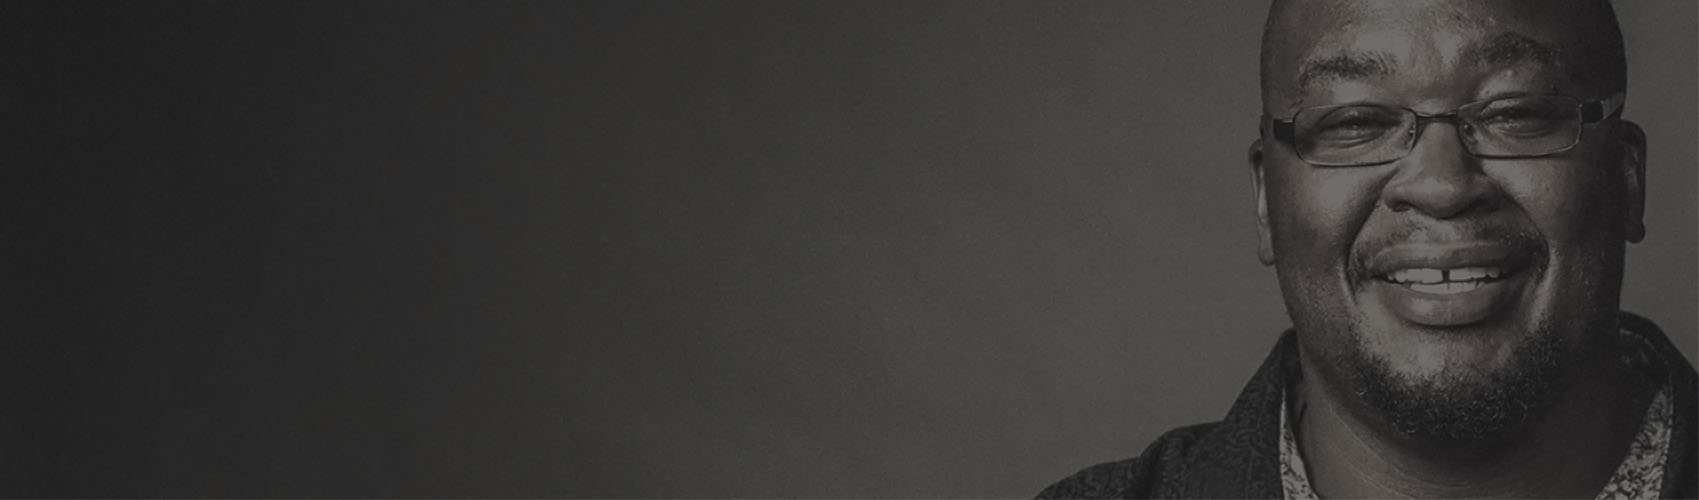
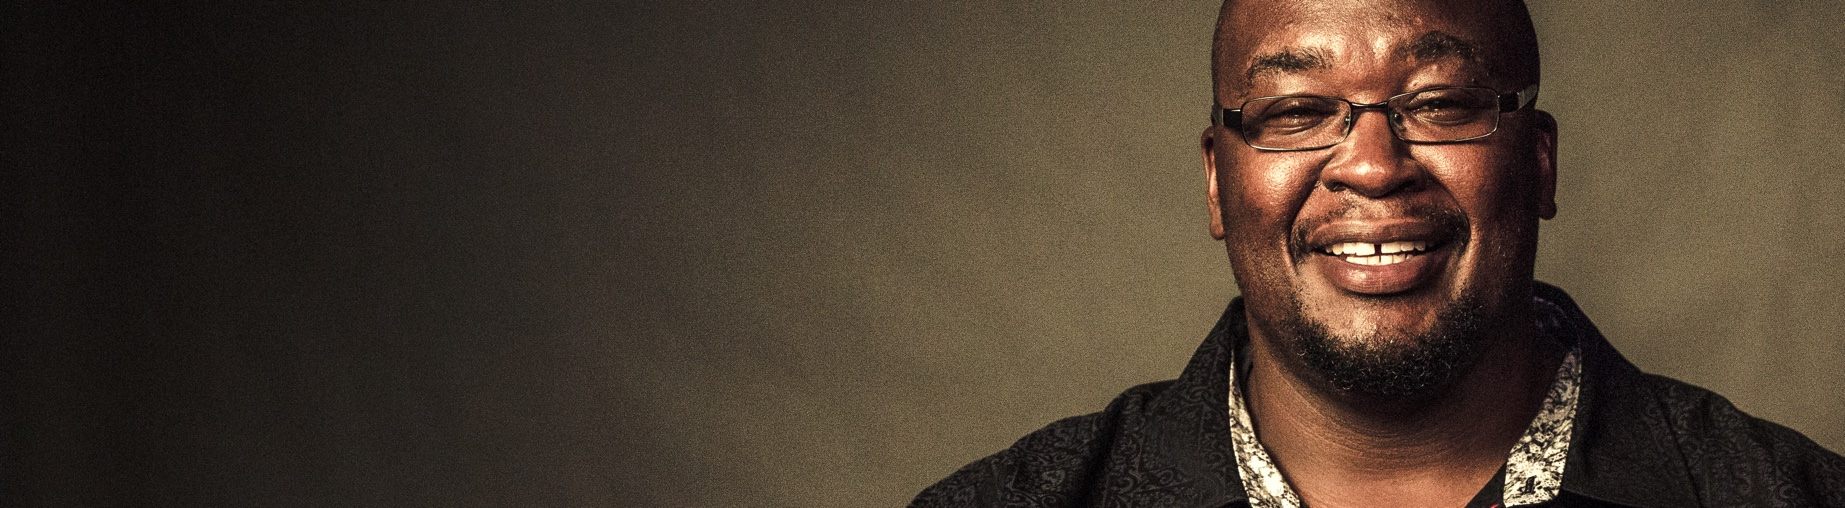
add new background images and some css fixes

diff --git a/portal/static/css/gil.css b/portal/static/css/gil.css
@@ -6210,7 +6210,7 @@ figure.nav-overlay {
 }
 
 .module__heading {
-    font-size: 33px;
+    font-size: 30px;
     line-height: 38px;
     font-weight: bold;
     margin: 0 0 20px;
@@ -6258,10 +6258,10 @@ figure.nav-overlay {
 }
 @media (max-width: 767px) {
     .module__head {
-        font-size: 26px;
+        font-size: 24px;
     }
     .module__body {
-        font-size: 22px;
+        font-size: 20px;
         line-height: 28px;
     }
 }
@@ -6629,28 +6629,33 @@ figure.nav-overlay {
     }
 }
 .module-wrap--background__alonzo {
-    background-image: url("../img/LE_Alonzo_McCann_Tablet.jpg");
-    background-position: 95%;
+    background-image: url("../img/LE_Alonzo_McCann.jpg");
+    background-position: 65%;
     transition: background-position 200ms ease-in-out;
 }
-@media (min-width: 992px) {
+@media (min-width: 1100px) {
+    .module-wrap--background__alonzo {
+        background-position: center center;
+    }
+}
+/*@media (min-width: 992px) {
     .module-wrap--background__alonzo {
         background-image: url("../img/LE_Alonzo_McCann.jpg");
     }
-}
+}*/
 .module-wrap--background__andrew {
-    background-image: url("../img/LE_David_Andrew_Perez_Tablet.jpg");
+    background-image: url("../img/LE_David_Andrew_Perez.jpg");
     background-position: 0;
     transition: background-position 200ms ease-in-out;
 }
-@media (min-width: 992px) {
+/*@media (min-width: 992px) {
     .module-wrap--background__andrew {
         background-image: url("../img/LE_David_Andrew_Perez.jpg");
     }
-}
+}*/
 .module-wrap--background__twins {
     background-image: url("../img/LE_Hirsch_Brothers_Tablet.jpg");
-    background-position: 58%;
+    background-position: 75%;
     transition: background-position 200ms ease-in-out;
 }
 @media (min-width: 1300px) {
@@ -6660,7 +6665,7 @@ figure.nav-overlay {
     }
 }
 .module-wrap--background .module__head {
-    font-size: 33px;
+    font-size: 2.3em;
 }
 
 @media (min-width: 1600px) {
@@ -6694,7 +6699,6 @@ figure.nav-overlay {
 }
 @media (min-width: 992px) {
     .module-wrap--background .module__body {
-        font-size: 1.8em;
         line-height: 1.4em;
     }
 }
@@ -6746,7 +6750,7 @@ figure.nav-overlay {
     }
     img.mobile {
         display: block;
-        width: 300px;
+        width: 350px;
         max-width: 100%;
         margin: 0 auto 1.5em auto;
         padding: 1em 0;
@@ -6757,7 +6761,6 @@ figure.nav-overlay {
     }
 
     .module-wrap--background .module__heading {
-        font-size: 24px;
         padding-left: 10px;
         padding-right: 10px;
     }
@@ -6766,10 +6769,15 @@ figure.nav-overlay {
     }
 }
 aside .module-wrap--background {
-    padding-top: 8%;
+    padding-top: 14%;
     padding-bottom: 0;
     background-position: center;
     transition: background-position 150ms ease-in;
+}
+@media (min-width: 550px) {
+    aside .module-wrap--background {
+        padding-top: 8%;
+    }
 }
 @media (min-width: 992px) {
     aside .module-wrap--background {
